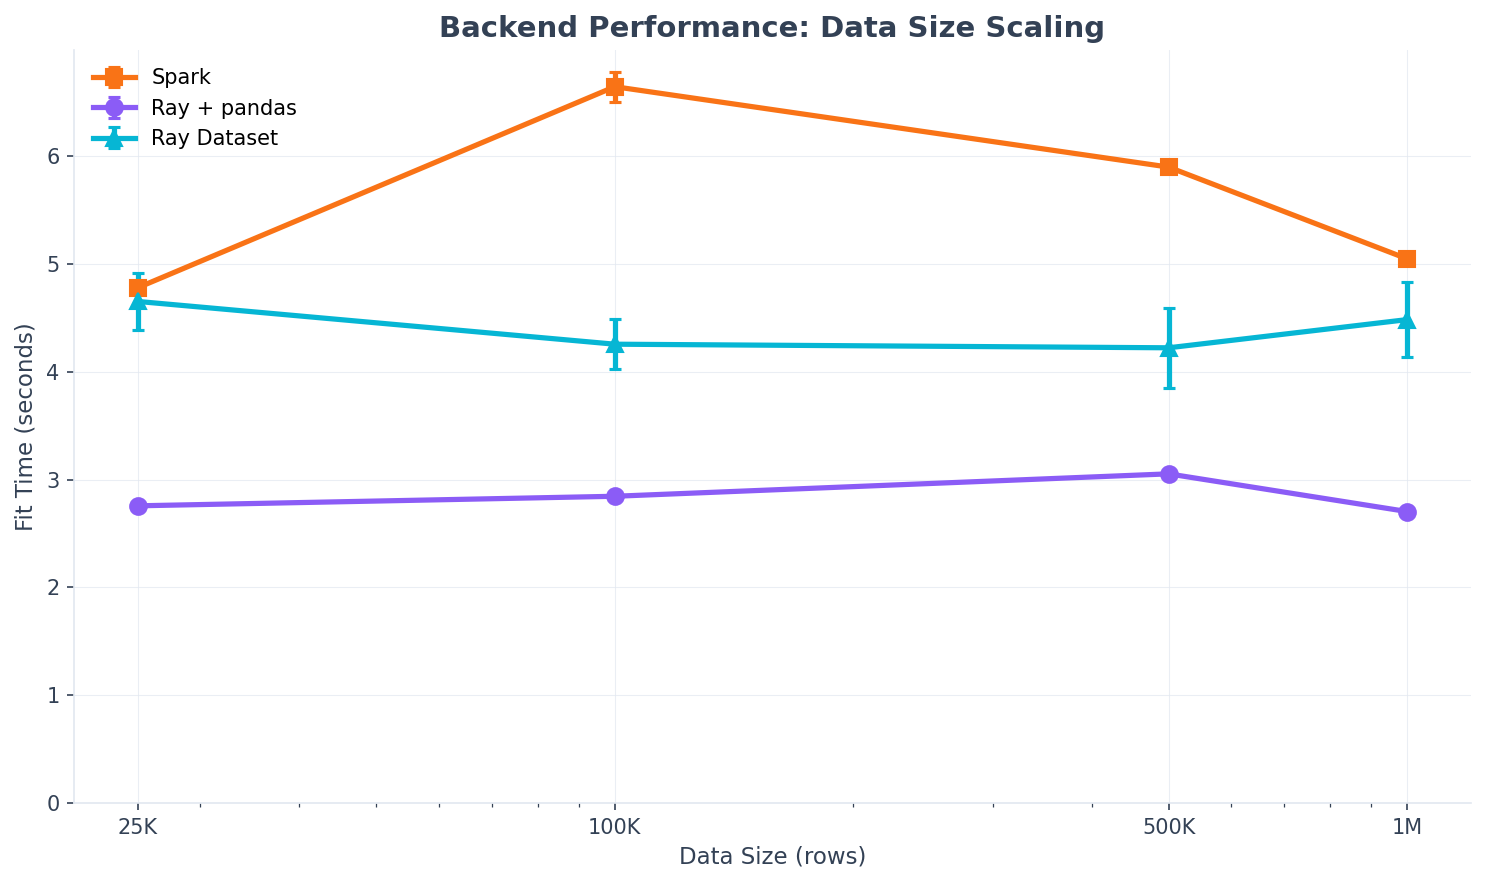
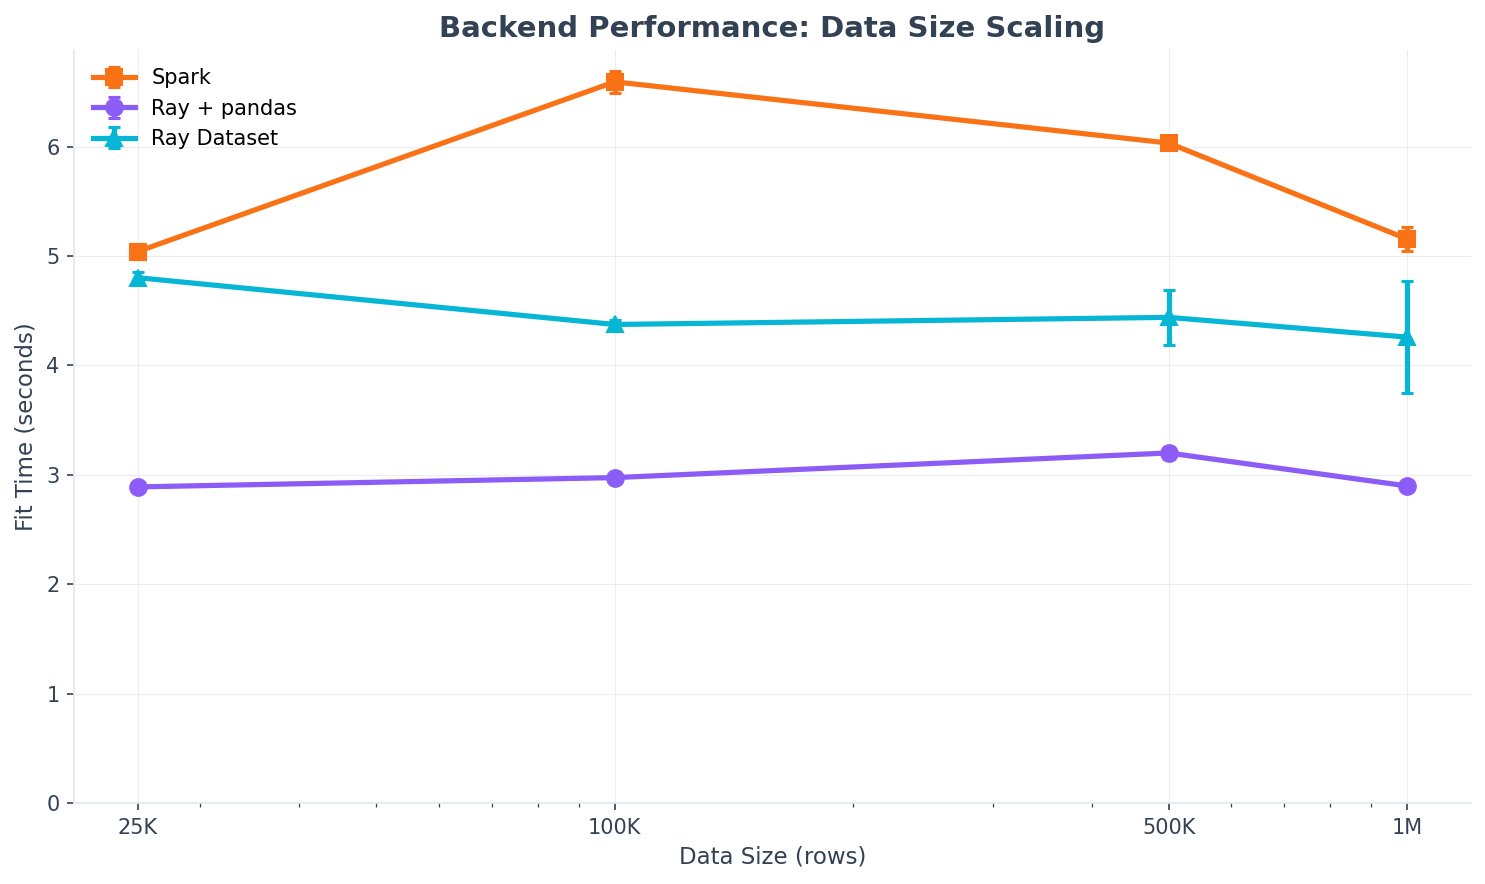
docs: refresh benchmark plots

diff --git a/docs/_static/benchmark_comparison.rst b/docs/_static/benchmark_comparison.rst
@@ -18,24 +18,24 @@ The following benchmarks were run on a local development machine.
      - Ray Dataset
      - Fastest
    * - 25,000
-     - 4.78s
-     - 2.76s
-     - 4.65s
+     - 5.04s
+     - 2.89s
+     - 4.80s
      - **Ray+pandas**
    * - 100,000
-     - 6.65s
-     - 2.85s
-     - 4.26s
+     - 6.59s
+     - 2.98s
+     - 4.37s
      - **Ray+pandas**
    * - 500,000
-     - 5.90s
-     - 3.05s
-     - 4.22s
+     - 6.03s
+     - 3.20s
+     - 4.44s
      - **Ray+pandas**
    * - 1,000,000
-     - 5.05s
-     - 2.70s
-     - 4.48s
+     - 5.16s
+     - 2.90s
+     - 4.26s
      - **Ray+pandas**
 
 **Distribution Count Scaling** (10K rows)
@@ -50,27 +50,27 @@ The following benchmarks were run on a local development machine.
      - Ray Dataset
      - Fastest
    * - 5
-     - 0.46s
-     - 0.09s
-     - 1.75s
+     - 0.49s
+     - 0.10s
+     - 1.79s
      - **Ray+pandas**
    * - 20
-     - 0.87s
-     - 0.26s
-     - 1.96s
+     - 0.98s
+     - 0.29s
+     - 2.04s
      - **Ray+pandas**
    * - 50
-     - 1.46s
-     - 0.58s
-     - 2.26s
+     - 1.53s
+     - 0.63s
+     - 2.36s
      - **Ray+pandas**
    * - 90
-     - 5.71s
-     - 2.77s
-     - 4.49s
+     - 5.97s
+     - 2.89s
+     - 4.57s
      - **Ray+pandas**
    * - 107
-     - 6.57s
-     - 2.91s
-     - 4.26s
+     - 6.64s
+     - 3.00s
+     - 4.36s
      - **Ray+pandas**
